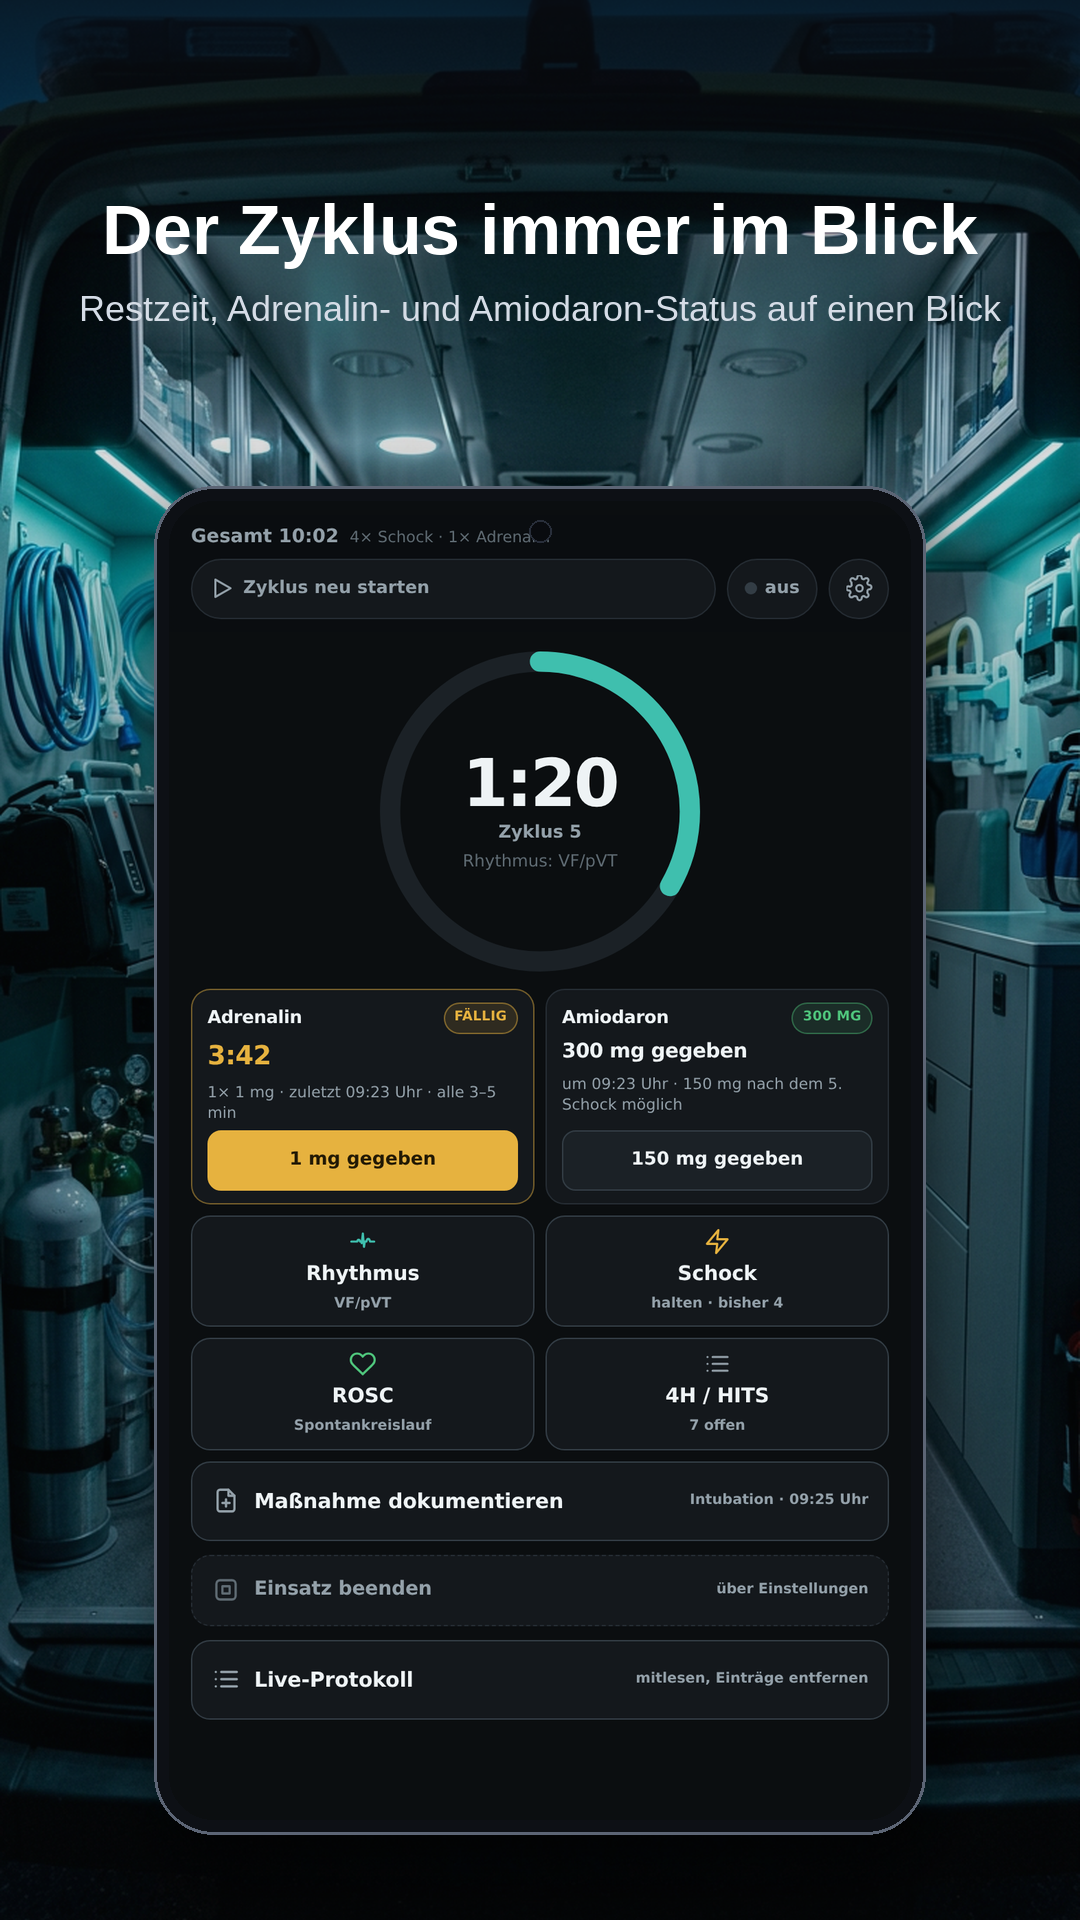
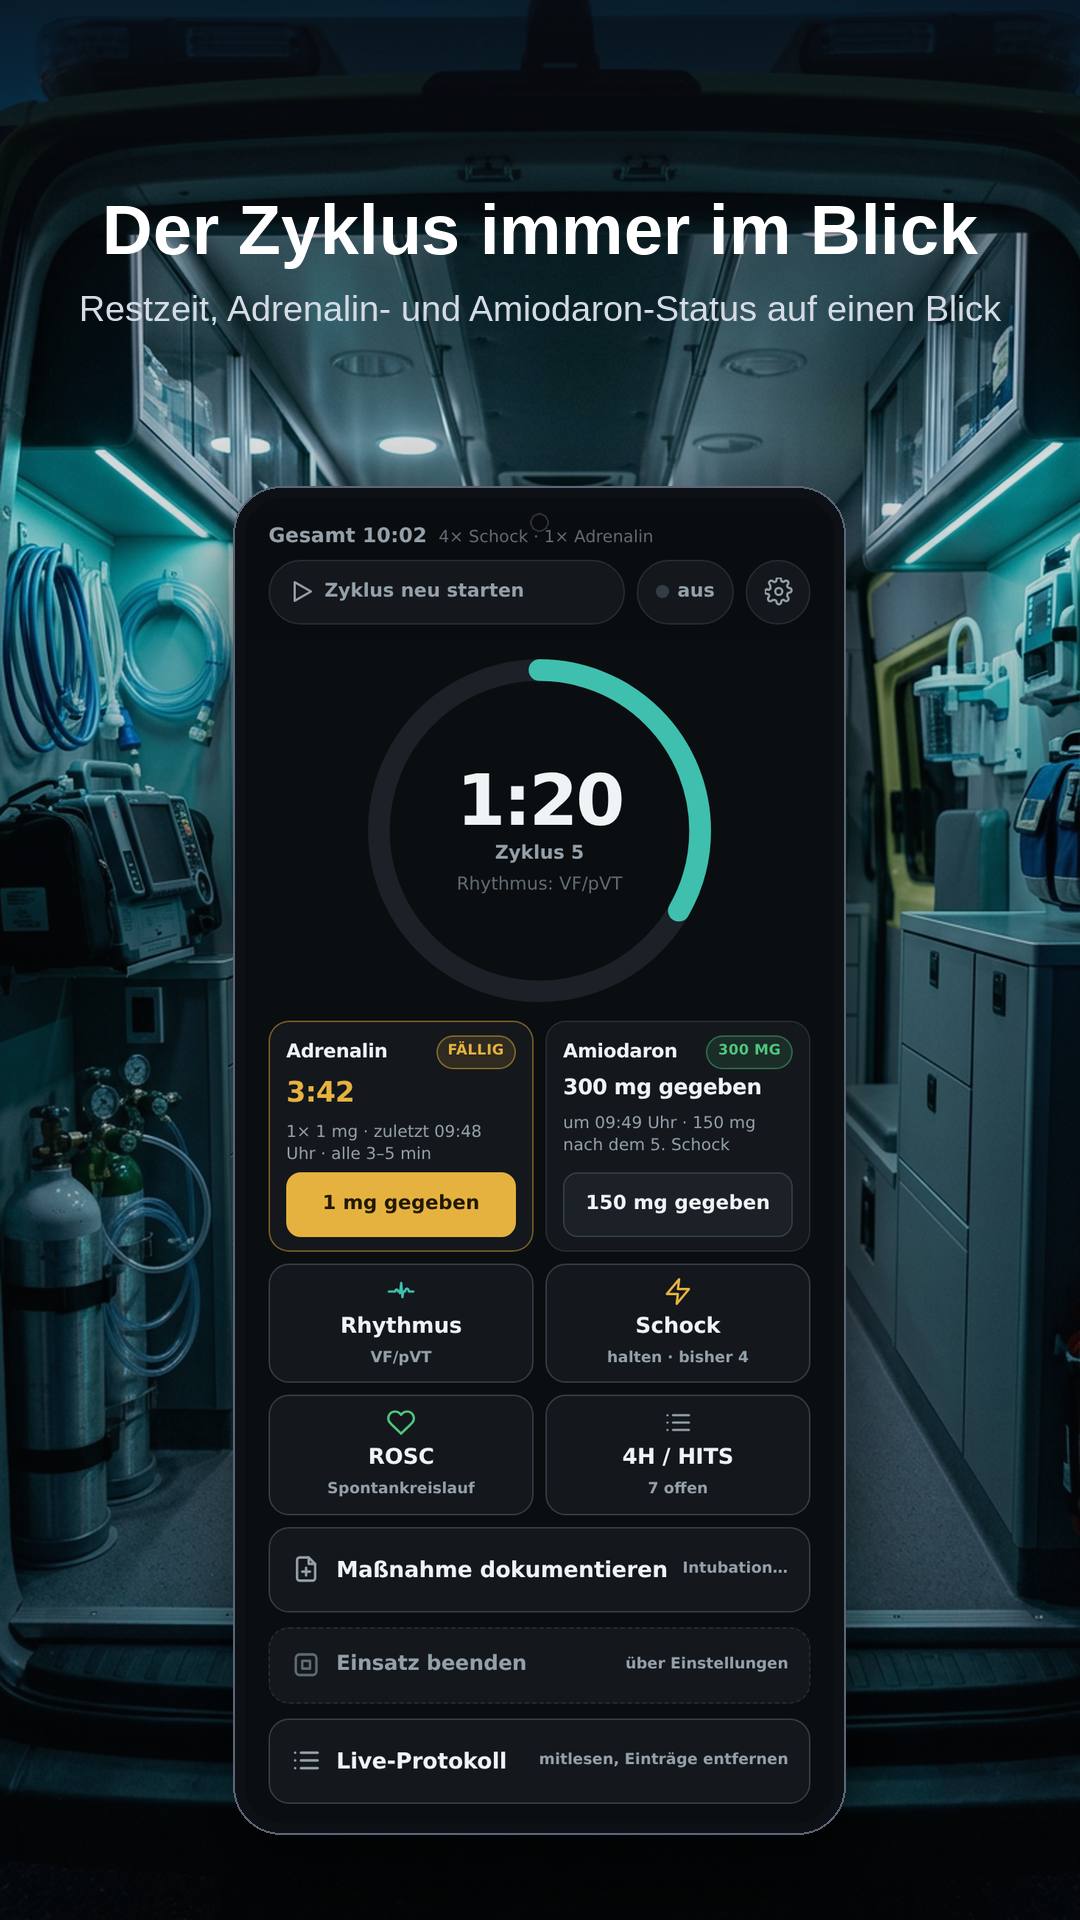
Store-Screenshots im Handyformat statt 9:16
Das Geraet im Screenshot erbt sein Seitenverhaeltnis von der Aufnahme.
Mit 9:16 wirkte der breite Rahmen wie ein Tablet. Aufgenommen wird jetzt
mit 400 x 900 CSS-Pixeln (1 : 2,25 - heutiges Handyformat), das Geraet
ist entsprechend schmaler (613 statt 772 px) und bleibt in derselben
Hoehe zwischen Ueberschrift und unterem Rand.

Die 900 px sind gemessen, nicht geraten: Die Einsatz-Ansicht ist bei
400 px Breite 953 px hoch, und erst ab rund 900 px steht die unterste
Zeile vollstaendig im Bild statt angeschnitten. Die schmalere
CSS-Breite haelt die Bedienelemente zugleich groesser als vorher,
obwohl das Geraet kleiner geworden ist.

Claude-Session: https://claude.ai/code/session_016zZZsNYToJdXyRA4mCBj6E

diff --git a/docs/store-texte.md b/docs/store-texte.md
@@ -115,7 +115,15 @@ python3 ~/.claude/skills/mercwerk-store-grafiken/scripts/storegrafik.py \
 
 Die Store-Screenshots zeigen die echte App in einem gezeichneten Geräterahmen
 vor einem Foto aus der Notfallmedizin (kühl und klinisch, erzeugt mit
-Higgsfield AI; die Hintergründe liegen unter `screenshot-quellen/`). Der
+Higgsfield AI; die Hintergründe liegen unter `screenshot-quellen/`).
+
+Der Rahmen erbt sein Seitenverhältnis von der Aufnahme. Deshalb wird mit
+400 × 900 CSS-Pixeln aufgenommen (1 : 2,25) statt im alten 9:16 – sonst wirkt
+das Gerät wie ein Tablet. Die Gerätebreite von 613 px ist dazu passend
+gewählt, damit die Höhe im Band zwischen Überschrift und unterem Rand bleibt.
+Die 900 px sind kein runder Zufallswert: Die Einsatz-Ansicht ist bei 400 px
+Breite 953 px hoch, und erst ab rund 900 px steht die unterste Zeile
+(„Live-Protokoll") vollständig im Bild. Der
 Demo-Einsatz in `konfig.json` ist bewusst durchgehend chronologisch
 aufgebaut – das Live-Protokoll ist im Bild zu lesen, und dort fiele jede
 Unstimmigkeit auf. Personenbezogene Daten gibt es nicht: die App erfasst
